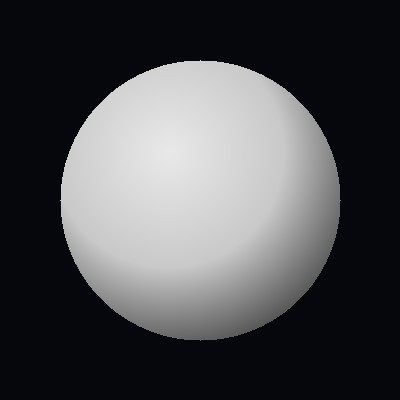
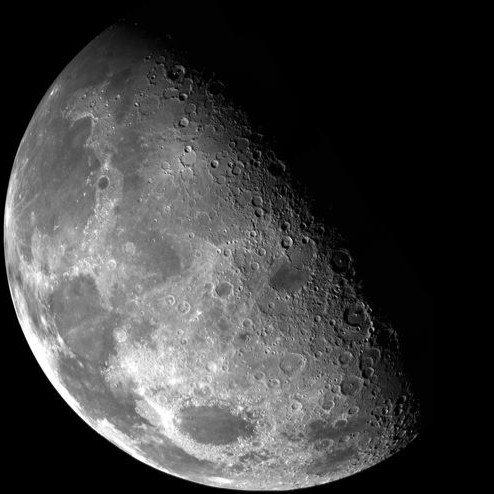
añadido configuracion de orbita, arreglado wireframe, añadido imagenes de NASA (revisar imagenes de la nasa.txt para links), arreglados puntos esteticos.

diff --git a/static/app.js b/static/app.js
@@ -2,13 +2,24 @@
 // 1. Configuración de la escena 3D
 // ============================================================
 const scene = new THREE.Scene();
-const camera = new THREE.PerspectiveCamera(75, window.innerWidth / window.innerHeight, 0.1, 8000);
-const renderer = new THREE.WebGLRenderer({ antialias: true });
+const camera = new THREE.PerspectiveCamera(75, window.innerWidth / window.innerHeight, 0.001, 45000);
+// logarithmicDepthBuffer: true evita el "z-fighting" (objetos que
+// desaparecen o parpadean al acercar la cámara) que aparece cuando la
+// relación far/near de la cámara es muy grande — acá es de 45.000.000:1
+// (near=0.001, para poder acercarse a cuerpos en escala real como la
+// Tierra, ~0.0016 unidades; far=45000, para que las estrellas de fondo
+// sigan siendo visibles). Sin esto, el buffer de profundidad estándar no
+// tiene precisión suficiente para distinguir bien los objetos cercanos.
+const renderer = new THREE.WebGLRenderer({ antialias: true, logarithmicDepthBuffer: true });
 
 renderer.setSize(window.innerWidth, window.innerHeight);
 document.body.appendChild(renderer.domElement);
 
 const controls = new THREE.OrbitControls(camera, renderer.domElement);
+// Nunca dejar que la cámara se acerque más que el "near" plane (0.001): si
+// lo cruza, lo que esté justo ahí se recorta y desaparece (distinto del
+// z-fighting de arriba, pero con el mismo síntoma visible).
+controls.minDistance = 0.01;
 controls.target.set(0, 0, 0); // el baricentro (origen de las coordenadas) queda como centro de órbita de la cámara
 camera.position.set(0, 55, 85);
 
@@ -28,7 +39,7 @@ function crearEstrellas() {
     const cantidad = 1500;
     const posiciones = new Float32Array(cantidad * 3);
     for (let idx = 0; idx < cantidad; idx++) {
-        const radio = 1200 + Math.random() * 800;
+        const radio = 24000 + Math.random() * 16000; // 20x más lejos que antes (1200-2000 -> 24000-40000)
         const theta = Math.random() * Math.PI * 2;
         const phi = Math.acos(2 * Math.random() - 1);
         posiciones[idx * 3] = radio * Math.sin(phi) * Math.cos(theta);
@@ -69,6 +80,10 @@ const UNIDADES_POR_RAIZ_UA = 14;
 const KM_POR_UNIDAD_REAL = 4000000;
 
 let modoEscala = 'real'; // 'real' | 'exagerada'
+
+// Mostrar/ocultar los aros de órbita de todos los cuerpos (independiente de
+// mostrar/ocultar el cuerpo en sí, ver el índice). Por defecto se muestran.
+let mostrarOrbitas = true;
 
 function escalarDistancia(distanciaKm) {
     if (modoEscala === 'real') {
@@ -547,36 +562,43 @@ function construirCuerpos(cuerpos) {
         scene.add(marcadorPunto);
         objetosCuerpos.push(marcadorPunto);
 
-        // Hitbox invisible y wireframe: ambos siguen el radio visual actual
-        // del cuerpo (ver calcularRadioHitbox/calcularRadioWireframe), con
-        // factor 2x en modo "real" y 1.3x en modo "exagerada". El modo
-        // aplicable depende de si es luna (modoEscalaLuna) o no (modoTamano).
+        // Hitbox invisible y wireframe: qué tan lejos quedan de la
+        // superficie real del cuerpo depende de la categoría.
         //
-        // Dos reducciones adicionales, encima del cálculo normal:
+        // - Sol y planetas: SIN piso mínimo — se ciñen directamente a un
+        //   múltiplo de su propio radio visual actual (factor 2x en modo
+        //   "real", 1.3x en "exagerada"), igual que ya hacía el Sol. En
+        //   escala real esto los deja muy chicos para clickear con
+        //   precisión con el mouse (el radio real de Júpiter, el más
+        //   grande, es de apenas 0.0175 unidades) — para eso está el
+        //   índice (menú izquierdo), que no depende de acertarle con el
+        //   mouse.
         //
-        // - Misiones/satélites artificiales: su radio real es virtualmente
-        //   cero (son objetos de metros), así que su hitbox/wireframe queda
-        //   dominado casi siempre por los pisos mínimos (RADIO_MINIMO_CLIC /
-        //   RADIO_MINIMO_WIREFRAME) en vez del factor 2x/1.3x — se ven
-        //   desproporcionadamente grandes. Se reduce a un tercio, en ambos
-        //   modos (real y exagerada).
+        // - Lunas: mismo criterio, pero con 2/3 del factor que usan los
+        //   planetas (más ceñidas a su propia superficie que su planeta).
         //
-        // - Planetas y lunas EN MODO REAL: el mismo problema de fondo, pero
-        //   más leve — sus radios reales también suelen quedar por debajo
-        //   de los pisos mínimos, así que casi todos terminan con el mismo
-        //   wireframe "de piso" en vez de algo proporcionalmente chico, y
-        //   se sienten grandes. Se reduce a un tercio SOLO en modo real (en
-        //   "exagerada" el radio_exagerado ya da un tamaño razonable, sin
-        //   depender del piso). El Sol no entra en esta reducción — su
-        //   radio real (0.174 unidades) es lo bastante grande como para que
-        //   el factor 2x normal ya se vea proporcional, sin tocar el piso.
+        // - Misiones/satélites artificiales: su radio real es
+        //   virtualmente cero (son objetos de metros), así que acá SÍ se
+        //   usa un piso mínimo (RADIO_MINIMO_CLIC / RADIO_MINIMO_WIREFRAME,
+        //   ver calcularRadioHitbox/calcularRadioWireframe) para que sigan
+        //   siendo clickeables, reducido a un tercio para que no se vean
+        //   desproporcionadamente grandes comparados con lo diminutos que
+        //   son en realidad.
         const esModoReal = esLuna ? (modoEscalaLuna === 'real') : (modoTamano === 'real');
-        const reduccionMision = data.categoria === 'satelite' ? (1 / 3) : 1;
-        const reduccionRealPlanetaLuna =
-            esModoReal && (data.categoria === 'planeta' || data.categoria === 'luna') ? (1 / 3) : 1;
-        const reduccionTotal = reduccionMision * reduccionRealPlanetaLuna;
 
-        const radioClic = calcularRadioHitbox(radioVisual, esModoReal) * reduccionTotal;
+        let radioClic, radioWireframe;
+        if (data.categoria === 'satelite') {
+            const reduccionMision = 1 / 3;
+            radioClic = calcularRadioHitbox(radioVisual, esModoReal) * reduccionMision;
+            radioWireframe = calcularRadioWireframe(radioVisual, esModoReal) * reduccionMision;
+        } else {
+            const factorCuerpo = factorRadioInteractivo(esModoReal) * (esLuna ? (2 / 3) : 1);
+            // Piso técnico minúsculo, solo para evitar geometría de radio 0
+            // (no busca garantizar que sea clickeable — ver comentario arriba).
+            const radioMinimoTecnico = 0.0005;
+            radioClic = Math.max(radioVisual * factorCuerpo, radioMinimoTecnico);
+            radioWireframe = Math.max(radioVisual * factorCuerpo, radioMinimoTecnico);
+        }
 
         const hitbox = new THREE.Mesh(
             new THREE.SphereGeometry(radioClic, 16, 16),
@@ -586,7 +608,6 @@ function construirCuerpos(cuerpos) {
         scene.add(hitbox);
         objetosCuerpos.push(hitbox);
 
-        const radioWireframe = calcularRadioWireframe(radioVisual, esModoReal) * reduccionTotal;
         const wireframe = new THREE.Mesh(
             new THREE.SphereGeometry(radioWireframe, 16, 16),
             new THREE.MeshBasicMaterial({ color: 0xffffff, wireframe: true, transparent: true, opacity: 0.9 })
@@ -598,7 +619,7 @@ function construirCuerpos(cuerpos) {
 
         cuerposInteractivos.push({ meshRaycast: hitbox, wireframe, nombre, datos: data });
 
-        if (elementos) {
+        if (elementos && mostrarOrbitas) {
             const distanciaActualKm = Math.sqrt(coords.x ** 2 + coords.y ** 2 + coords.z ** 2);
             const lineaOrbita = crearLineaOrbita(elementos, data.color, factor, distanciaActualKm);
             // El aro se genera centrado en el origen local; se traslada al
@@ -777,9 +798,6 @@ function construirContenidoInfo(nombre, datos) {
             <tr><td>Radio real</td><td>${formatearKm(datos.radio_km)}</td></tr>
         </table>
         <p class="nota" style="margin-top:6px; border-top:none; padding-top:0;">
-            ${modoTamano === 'real'
-                ? 'Mostrando el tamaño real, proporcional a la distancia. Por eso puede ser casi invisible.'
-                : 'Mostrando el tamaño exagerado (elegido a mano en main.py), no el real.'}
         </p>
 
         <h3>Coordenadas (relativas a ${datos.cuerpo_padre || 'el baricentro'})</h3>
@@ -832,9 +850,7 @@ function construirContenidoInfo(nombre, datos) {
         <p class="nota">
             Estas coordenadas${elementos || esSol ? ' y elementos orbitales' : ''} se consultan
             al sistema de efemérides JPL Horizons de la NASA
-            (<code>ssd.jpl.nasa.gov/api/horizons.api</code>), ${descripcionFecha}.
-            El servidor los guarda en caché ${descripcionCache}, pero el dato en sí viene
-            de un cálculo dinámico de la NASA, no de un valor fijo en el código.
+            (<code>ssd.jpl.nasa.gov/api/horizons.api</code>).
         </p>
     `;
 
@@ -904,6 +920,11 @@ document.querySelectorAll('input[name="escala-luna"]').forEach(radio => {
         modoEscalaLuna = evento.target.value;
         reconstruirConEscalaActual();
     });
+});
+
+document.getElementById('input-mostrar-orbitas').addEventListener('change', (evento) => {
+    mostrarOrbitas = evento.target.checked;
+    reconstruirConEscalaActual();
 });
 
 // Selector de fecha: cambiarlo dispara una nueva consulta al backend (no es

diff --git a/static/index.html b/static/index.html
@@ -332,7 +332,7 @@
         <div>Consultando posiciones reales en JPL Horizons…</div>
     </div>
 
-    <div id="ayuda">Pasa el mouse sobre un cuerpo para resaltarlo, o haz click para ver su información. El punto blanco central es el baricentro del sistema solar.</div>
+    <div id="ayuda">Haz click en un planeta o usa la enciclopedia (☰) para seleccionar un cuerpo celeste y ver su informacion.</div>
     <div id="banner-error"></div>
 
     <button id="indice-boton" title="Índice">☰</button>
@@ -402,6 +402,13 @@
             </label>
             <div class="descripcion">Órbita y tamaño de las lunas agrandados, en proporción a su propio planeta (no a las distancias planetarias), para que se vean como un anillo claro alrededor de él.</div>
 
+            <h3>Órbitas</h3>
+            <label>
+                <input type="checkbox" id="input-mostrar-orbitas" checked>
+                Mostrar órbitas
+            </label>
+            <div class="descripcion">Aros de órbita de todos los cuerpos (Sol y baricentro no tienen). Se puede combinar con mostrar/ocultar cuerpos individuales desde el índice.</div>
+
             <!--
                 ACERCA DE — para cambiar este texto, solo edita el contenido
                 del <p id="acerca-de-texto"> de acá abajo. No requiere tocar
@@ -409,11 +416,11 @@
             -->
             <h3>Acerca de</h3>
             <p id="acerca-de-texto" class="descripcion" style="margin-left: 0; font-size: 12px; line-height: 1.5;">
-                Tarea 2 de AST-101, de la Licenciatura en Ciencias de la Computación.
+                Tarea 2 de AST-101, de la Licenciatura en Ingenieria en Ciencias de la Computación, Datos obtenidos en vivo de JPL Horizons (NASA).
             </p>
             <p class="descripcion" style="margin-left: 0; font-size: 12px; margin-top: 6px;">
                 <a href="https://github.com/martinavilauc/Tarea-2---AST101" target="_blank" rel="noopener" style="color: #9fe3f0;">
-                    martinavilauc/Tarea-2---AST101
+                    Codigo en Github: martinavilauc/Tarea-2---AST101
                 </a>
             </p>
         </div>
